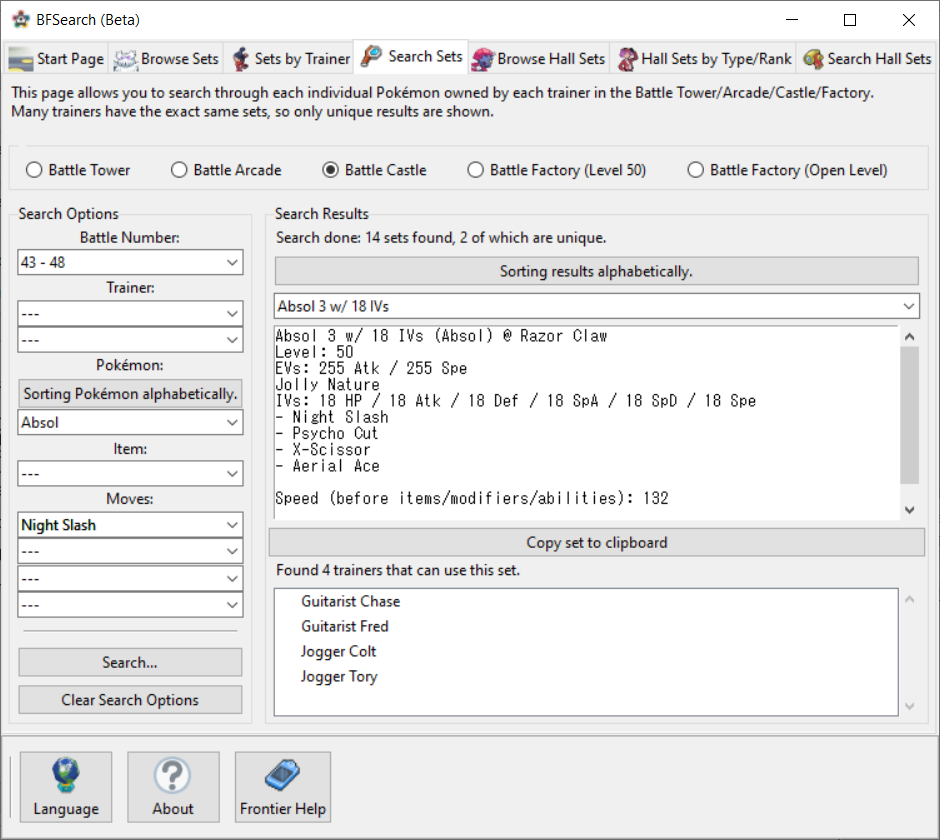
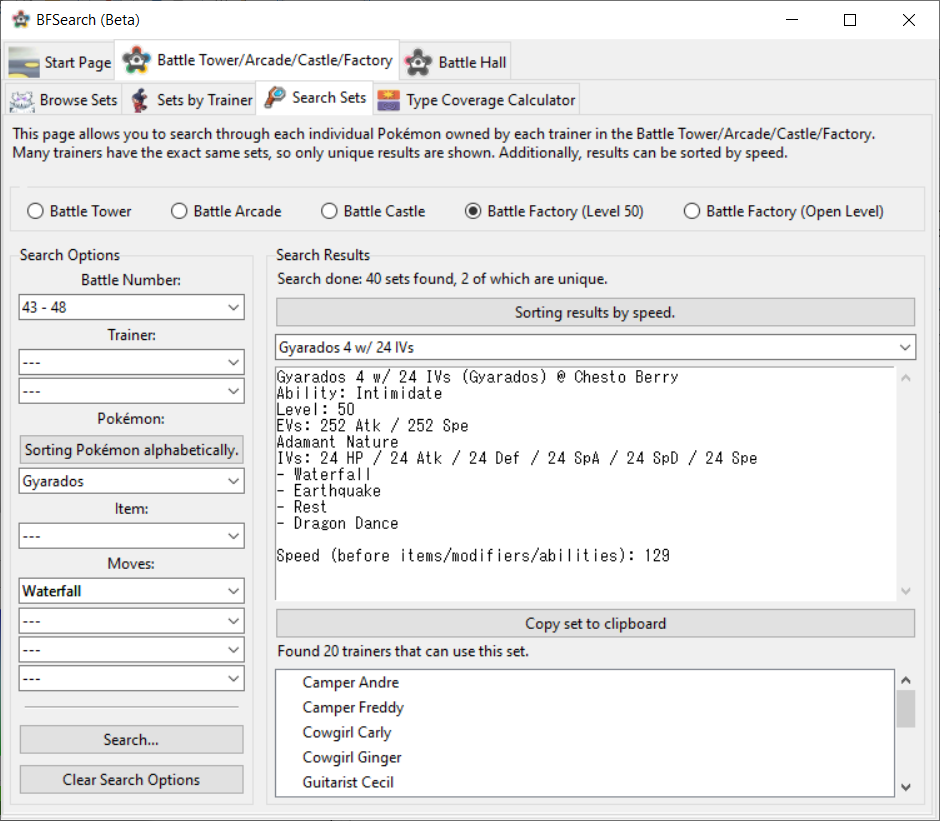
update readme

diff --git a/README.md b/README.md
@@ -7,15 +7,15 @@ Click to see a screenshot.
  
  - [View individual Pokemon you can face in the Battle Tower/Arcade/Castle/Factory organized by battle number and trainer.](https://raw.githubusercontent.com/connor135246/BFSearch/tkinter/manual/trainers.png)  
  
- - [Search through each individual Pokemon you can face in the Battle Tower/Arcade/Castle/Factory by various metrics.](https://raw.githubusercontent.com/connor135246/BFSearch/tkinter/manual/search.png)  
- 
  - [Browse through all possible sets you can face in the Battle Hall.](https://raw.githubusercontent.com/connor135246/BFSearch/tkinter/manual/browsehall.png)  
  
  - [View individual Pokemon you can face in the Battle Hall organized by the Type and Rank they appear at.](https://raw.githubusercontent.com/connor135246/BFSearch/tkinter/manual/hallcalc.png)  
-
-  - [Search through all possible sets you can face in the Battle Hall by various metrics.](https://raw.githubusercontent.com/connor135246/BFSearch/tkinter/manual/hallsearch.png)  
  
-  - [Learn all about the mechanics and quirks of the Battle Frontier in the help topics.](https://raw.githubusercontent.com/connor135246/BFSearch/tkinter/manual/help.png)  
+ - [Search through each individual Pokemon by various metrics across each facility.](https://raw.githubusercontent.com/connor135246/BFSearch/tkinter/manual/search.png)  
+ 
+ - [Check your type coverage across each facility.](https://raw.githubusercontent.com/connor135246/BFSearch/tkinter/manual/coverage.png)  
+ 
+ - [Learn all about the mechanics and quirks of the Battle Frontier in the help topics.](https://raw.githubusercontent.com/connor135246/BFSearch/tkinter/manual/help.png)  
 
 
 # Data
